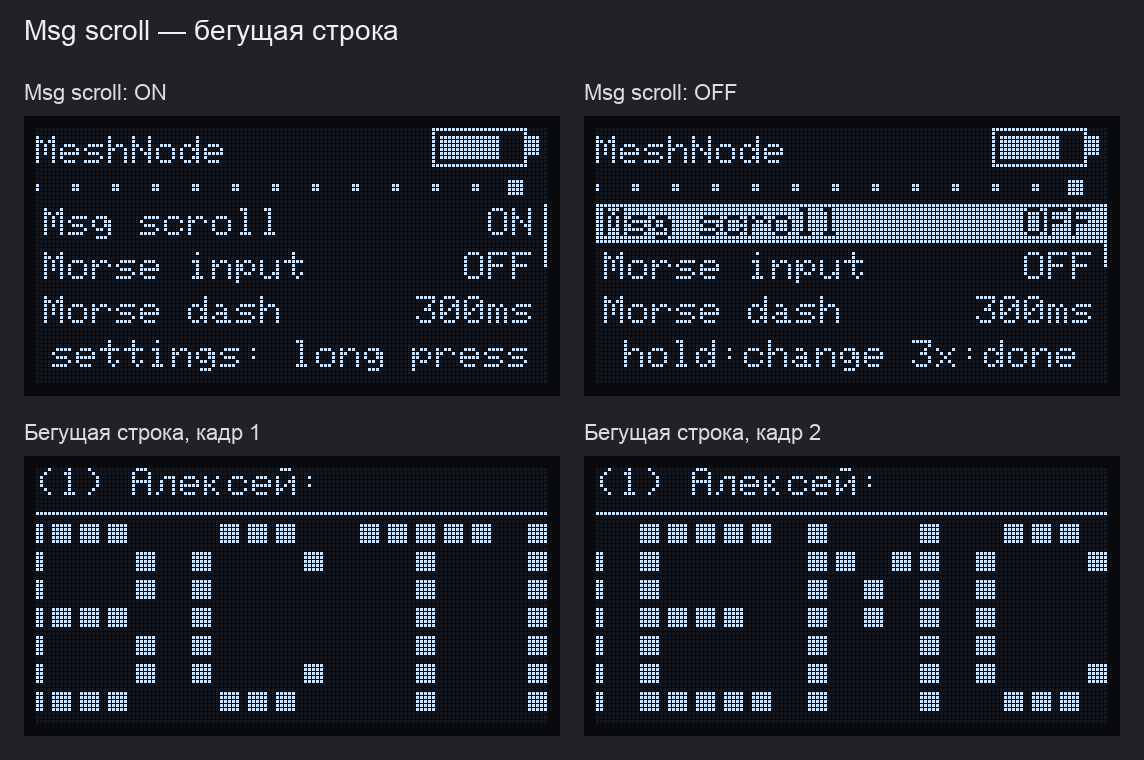
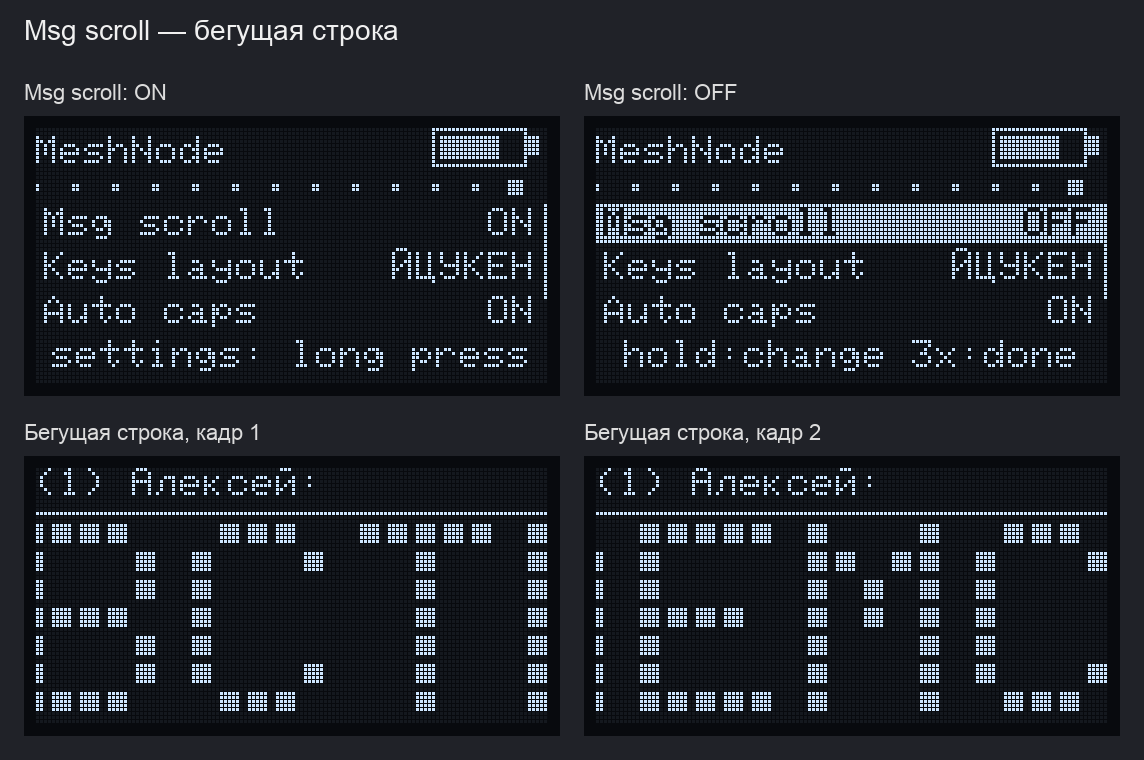
README, картинки и описание релиза: без морзе, «моё место».

diff --git a/tools/screen_render/render_compose.py b/tools/screen_render/render_compose.py
@@ -120,19 +120,19 @@ def layout_phrases(d, ph):
     return slots, page + 1
 
 
-def scr_phrases(d, lang="en", target="#Squad North", sel=0, morse=False, smart=()):
+def scr_phrases(d, lang="en", target="#Squad North", sel=0, gps=False, smart=()):
     L = LANG[lang]
     ph = [">" + x for x in smart] + L["phrases"]
     slots, pages = layout_phrases(d, ph)
-    fp = 2 if morse else 1
+    fp = 2 if gps else 1
     page = 0 if sel < fp else slots[sel - fp][0]
     title(d, target, "%d/%d" % (page + 1, pages))
     w = d.width()
     half = w // 2
     if page == 0:
-        if morse:
+        if gps:
             cell(d, 2, 15, half - 4, "клавиши" if lang == "ru" else "keys", sel == 0, True)
-            cell(d, half + 2, 15, half - 4, "морзе" if lang == "ru" else "morse", sel == 1, True)
+            cell(d, half + 2, 15, half - 4, "моё место" if lang == "ru" else "location", sel == 1, True)
         else:
             cell(d, 2, 15, w - 4, L["keyboard"], sel == 0, True)
     for i, p in enumerate(ph):
@@ -146,14 +146,13 @@ def scr_phrases(d, lang="en", target="#Squad North", sel=0, morse=False, smart=(
             cell(d, col * half + 2, y, half - 4, p, sel == i + fp, True)
 
 
-def scr_msg_settings(d, edit=False, row=0, scroll=True, morse=True, dash=300, freq=False, caps=True, lang="ru",
-                     cursor=False):
+def scr_msg_settings(d, edit=False, row=0, scroll=True, freq=False, caps=True, lang="ru", cursor=False):
     ro.home_header(d, "TICKER")
     w = d.width()
     lay = ("частотн." if lang == "ru" else "freq") if freq else ("ЙЦУКЕН" if lang == "ru" else "QWERTY")
-    rows = [("Msg scroll", "ON" if scroll else "OFF"), ("Morse input", "ON" if morse else "OFF"),
-            ("Morse dash", "%dms" % dash), ("Keys layout", lay), ("Auto caps", "ON" if caps else "OFF"),
-            ("Auto cursor", "ON" if cursor else "OFF")]
+    rows = [("Msg scroll", "ON" if scroll else "OFF"), ("Keys layout", lay),
+            ("Auto caps", "ON" if caps else "OFF"), ("Auto cursor", "ON" if cursor else "OFF")]
+    n = len(rows)
     top = row - 2 if edit and row >= 3 else 0
     d.setTextSize(1)
     for i in range(top, top + 3):
@@ -166,80 +165,23 @@ def scr_msg_settings(d, edit=False, row=0, scroll=True, morse=True, dash=300, fr
         rr = d.translate(r, 16)
         d.setCursor(w - 3 - d.getTextWidth(rr), y); d.print(rr)
     d.setColor(WHITE)
-    d.fillRect(w - 1, 19 + 32 * top // 6, 1, 32 * 3 // 6)
+    d.fillRect(w - 1, 19 + 32 * top // n, 1, 32 * 3 // n)
     d.drawTextCentered(w // 2, 64 - 11, "hold:change 3x:done" if edit else "settings: " + ro.PRESS_LABEL)
 
 
-MORSE_RU = [(".-", "а"), ("-...", "б"), (".--", "в"), ("--.", "г"), ("-..", "д"), (".", "е"),
-            ("...-", "ж"), ("--..", "з"), ("..", "и"), (".---", "й"), ("-.-", "к"), (".-..", "л"),
-            ("--", "м"), ("-.", "н"), ("---", "о"), (".--.", "п"), (".-.", "р"), ("...", "с"),
-            ("-", "т"), ("..-", "у"), ("..-.", "ф"), ("....", "х"), ("-.-.", "ц"), ("---.", "ч"),
-            ("----", "ш"), ("--.-", "щ"), ("--.--", "ъ"), ("-.--", "ы"), ("-..-", "ь"), ("..-..", "э"),
-            ("..--", "ю"), (".-.-", "я")]
-MORSE_EN = [(".-", "a"), ("-...", "b"), ("-.-.", "c"), ("-..", "d"), (".", "e"), ("..-.", "f"),
-            ("--.", "g"), ("....", "h"), ("..", "i"), (".---", "j"), ("-.-", "k"), (".-..", "l"),
-            ("--", "m"), ("-.", "n"), ("---", "o"), (".--.", "p"), ("--.-", "q"), (".-.", "r"),
-            ("...", "s"), ("-", "t"), ("..-", "u"), ("...-", "v"), (".--", "w"), ("-..-", "x"),
-            ("-.--", "y"), ("--..", "z")]
+SETTINGS_SCREENS = [
+    ("90_msg_settings", "Настройки: удержание — открыть", lambda d: scr_msg_settings(d)),
+    ("91_msg_settings_kb", "Раскладка и заглавные", lambda d: scr_msg_settings(d, True, 1)),
+    ("92_msg_settings_cursor", "Автокурсор", lambda d: scr_msg_settings(d, True, 3)),
+]
 
-
-def scr_morse(d, lang="ru", target="@Алексей", text="", code="", live=None, note=None, warn=False,
-              crib=0, tip=0, dash=300):
-    """Morse entry: the text line, the code being keyed, what it means, hints."""
-    tbl = dict(MORSE_RU if lang == "ru" else MORSE_EN)
-    ru = lang == "ru"
-    w = d.width()
-    count = str(len(text))
-    if not text:
-        title(d, "to " + target, count)
-    else:
-        d.setTextSize(1); d.setColor(WHITE)
-        d.setCursor(w - d.getTextWidth(count) - 1, 0); d.print(count)
-        d.setCursor(0, 0); d.print(d.translate(text + "_", 64))
-        d.drawRect(0, 11, w, 1)
-    d.setColor(WHITE)
-    x = 2
-    for ch in code:
-        ww = 12 if ch == "-" else 4
-        d.fillRect(x, 17, ww, 4); x += ww + 4
-    cur = code
-    if live is not None:
-        ww = 12 if live else 4
-        d.drawRect(x, 17, ww, 4); x += ww + 4
-        cur += "-" if live else "."
-    if cur:
-        now = tbl.get(cur, "?")
-        line = "= " + now
-        tw = d.getTextWidth(d.translate(line, 20))
-        d.setCursor(w - tw - 1, 15); d.print(d.translate(line, 20))
-        a, b = tbl.get(cur + ".", "-"), tbl.get(cur + "-", "-")
-        d.drawTextCentered(w // 2, 27, d.translate("+. %s   +- %s" % (a, b), 40))
-    else:
-        d.drawTextCentered(w // 2, 15, d.translate(
-            ("точка < %d мс < тире" if ru else "dot < %dms < dash") % dash, 40))
-        d.drawTextCentered(w // 2, 27, d.translate("держать 2 с: выход" if ru else "hold 2s: exit", 40))
-    if note:
-        d.drawTextCentered(w // 2, 39, d.translate(note, 48))
-    else:
-        items = (MORSE_RU if ru else MORSE_EN)[crib * 3:crib * 3 + 3]
-        d.drawTextCentered(w // 2, 39, d.translate(" ".join(o + c for c, o in items), 48))
-    tips = ([".-.-. отправить", "-...- пробел", "........ стереть", "пауза: пробел"] if ru
-            else [".-.-. send", "-...- space", "........ erase", "long pause: space"])
-    d.drawTextCentered(w // 2, 52, d.translate(tips[tip], 40))
-
-
-MORSE_SCREENS = [
-    ("90_msg_settings", "Настройки: удержание — открыть", scr_msg_settings),
-    ("91_msg_settings_edit", "Морзе вкл/выкл", lambda d: scr_msg_settings(d, True, 1)),
-    ("92_msg_settings_dash", "Порог тире: 200…800 мс", lambda d: scr_msg_settings(d, True, 2)),
-    ("92b_msg_settings_kb", "Раскладка и заглавные", lambda d: scr_msg_settings(d, True, 3)),
-    ("93_phrases_morse", "Рядом с клавишами — морзе", lambda d: scr_phrases(d, "ru", "@Алексей", sel=1, morse=True)),
-    ("94_morse_idle", "Морзе: подсказки и азбука", lambda d: scr_morse(d, crib=5)),
-    ("95_morse_keying", "Нажато .-. — это «р»", lambda d: scr_morse(d, text="пр", code=".-.", tip=1)),
-    ("96_morse_live", "Держите дольше 300 мс — тире", lambda d: scr_morse(d, text="пр", code=".-", live=1, tip=2)),
-    ("97_morse_unknown", "Такого знака нет: ничего не вписано",
-     lambda d: scr_morse(d, text="привет", note="..--.- ? нет знака", tip=0)),
-    ("98_morse_en", "set lang en: латиница", lambda d: scr_morse(d, "en", "@Alexey", text="hi", code="--.", tip=0)),
+GPS_SCREENS = [
+    ("b1_gps_key", "GPS включён: «моё место» рядом с клавишами",
+     lambda d: scr_phrases(d, "ru", "#Squad North", sel=1, gps=True)),
+    ("b2_gps_sent", "В Sent: geo:широта,долгота",
+     lambda d: scr_sent(d, "#Squad North", "1/3", "To channel", "0s", "geo:55.75210,37.61750")),
+    ("b3_gps_key_en", "set lang en: location",
+     lambda d: scr_phrases(d, "en", "@Alexey", sel=1, gps=True)),
 ]
 
 SMART_SCREENS = [
@@ -252,7 +194,7 @@ SMART_SCREENS = [
     ("a4_next_word2", "После «через » — дальше",
      lambda d: scr_keys(d, "ru", "@Алексей", text="Буду через ", row=3, col=8)),
     ("a5_settings_cursor", "Auto cursor в настройках",
-     lambda d: scr_msg_settings(d, True, 5, cursor=True)),
+     lambda d: scr_msg_settings(d, True, 3, cursor=True)),
     ("a6_save_phrase", "Из Sent: сделать фразой", lambda d: scr_save_phrase(d)),
 ]
 
@@ -261,7 +203,7 @@ JOURNEY_SCREENS = [
     ("02_message", "2. Читаете. Удержание — ответить",
      lambda d: ro.scr_message(d, "Ты где? Мы у моста", unread=1, origin="(1) Алексей:")),
     ("03_reply_phrases", "3. RE: фраза одной кнопкой или свой текст",
-     lambda d: scr_phrases(d, "ru", "RE @Алексей", sel=2, morse=True, smart=("в пути", "на месте", "дома"))),
+     lambda d: scr_phrases(d, "ru", "RE @Алексей", sel=1, smart=("в пути", "на месте", "дома"))),
     ("04_reply_keys", "4. Клавиатура с подсказками слов",
      lambda d: scr_keys(d, "ru", "@Алексей", text="Буду у мо", row=3, col=8)),
     ("05_delivered", "5. Доставлено", lambda d: scr_result(d, "RE @Алексей", "Delivered")),
@@ -537,8 +479,8 @@ NEIGHBOR_SCREENS = [
 ]
 
 TICKER_SCREENS = [
-    ("50_ticker_on", "Msg scroll: ON", lambda d: scr_msg_settings(d, morse=False)),
-    ("51_ticker_off", "Msg scroll: OFF", lambda d: scr_msg_settings(d, True, 0, scroll=False, morse=False)),
+    ("50_ticker_on", "Msg scroll: ON", lambda d: scr_msg_settings(d)),
+    ("51_ticker_off", "Msg scroll: OFF", lambda d: scr_msg_settings(d, True, 0, scroll=False)),
 ]
 
 # ------------------------------------------------------------ running line
@@ -721,14 +663,16 @@ def main():
     sheet(jitems, 3, "Без телефона: пришло — прочитал — ответил — доставлено").save(
         os.path.join(out, "gallery_autonomy.png"))
 
-    mitems = []
-    os.makedirs(os.path.join(out, "morse"), exist_ok=True)
-    for fname, label, fn in MORSE_SCREENS:
-        d = Dev(); fn(d)
-        im = to_image(d)
-        im.save(os.path.join(out, "morse", fname + ".png"))
-        mitems.append((label, im))
-    sheet(mitems, 3, "Морзе и настройки сообщений").save(os.path.join(out, "gallery_morse.png"))
+    for name, title_, screens in (("settings", "Настройки сообщений", SETTINGS_SCREENS),
+                                  ("gps", "Моё место: координаты одной кнопкой", GPS_SCREENS)):
+        items = []
+        os.makedirs(os.path.join(out, name), exist_ok=True)
+        for fname, label, fn in screens:
+            d = Dev(); fn(d)
+            im = to_image(d)
+            im.save(os.path.join(out, name, fname + ".png"))
+            items.append((label, im))
+        sheet(items, 3, title_).save(os.path.join(out, "gallery_%s.png" % name))
 
     titems = []
     for fname, label, fn in TICKER_SCREENS:

diff --git a/README.md b/README.md
@@ -19,12 +19,12 @@
 | Ответить | Удержание в окне сообщения: адресат уже выбран, в заголовке `RE` | [Ответ на входящее](#ответ-на-входящее) |
 | Ответить быстро | Готовые ответы под смысл сообщения («Ты где?» → `в пути`), 18 фраз, свои фразы | [Как писать быстрее](#как-писать-быстрее) |
 | Написать свой текст | Клавиатура с подсказками слова и следующего слова, заглавными, цифрами и черновиками | [Клавиатура](#клавиатура) |
-| Набрать вслепую | Азбука Морзе одной кнопкой, русская или латинская | [Морзе](#морзе-ввод-одной-кнопкой) |
+| Сообщить, где вы | Клавиша «моё место» отправляет координаты GPS одним удержанием | [Моё место](#моё-место-координаты-одной-кнопкой) |
 | Написать первым | В канал или избранному контакту, последние адресаты сверху | [Кому можно отправить](#кому-можно-отправить) |
 | Убедиться, что дошло | `Delivered` / `No reply` для личных, повтор удержанием | [Как отправить](#как-отправить) |
 | Посмотреть, что отправлено | Страница Sent: кому, в какой канал, на что ответ, статус | [Sent](#sent-что-отправлено-с-устройства) |
 | Видеть, кто рядом | Neighbors: число соседей и их сигнал | [Neighbors](#neighbors-сколько-соседей) |
-| Настроить под себя | Бегущая строка, морзе, раскладка, заглавные — в меню устройства | [Как выключить](#как-выключить) |
+| Настроить под себя | Бегущая строка, раскладка, заглавные, автокурсор — в меню устройства | [Как выключить](#как-выключить) |
 
 ## Что один раз сделать с телефоном
 
@@ -35,7 +35,7 @@
 3. **Отметьте избранными (звёздочкой) контакты**, которым будете писать первым. Отвечать можно любому, кто написал, даже не избранному.
 4. По желанию в контакте **Console**: язык (`set lang ru|en`), свои фразы (`set phrase N текст`), время (`set time …`).
 
-Всё остальное — чтение, ответы, новые сообщения, настройки ленты, морзе и клавиатуры — дальше делается на устройстве.
+Всё остальное — чтение, ответы, новые сообщения, настройки ленты и клавиатуры — дальше делается на устройстве.
 
 ## Одна кнопка: шпаргалка
 
@@ -45,7 +45,6 @@
 | Окно сообщения | прочитано, следующее | следующая страница | удалить | все прочитаны | — | **ответить** |
 | Списки (адресаты, фразы) | следующий | предыдущий | назад | на главную | на главную | выбрать / **отправить фразу** |
 | Клавиатура | вправо | влево | вниз | вверх | выход (черновик) | ввести клавишу |
-| Морзе | точка — короткое, тире — длинное нажатие | | | | | 2 с — выход |
 | Sent | старее | новее | выход | **сделать фразой** | выход | написать ещё раз |
 | Настройки сообщений | следующая строка | предыдущая | закрыть | — | — | открыть / изменить |
 
@@ -60,7 +59,7 @@
 | Готовые фразы | — | ✅ 18 фраз на трёх экранах, по-русски или по-английски, любую можно заменить командой |
 | Русская клавиатура | — | ✅ при `set lang ru` (по умолчанию), английская при `set lang en` |
 | Подсказки слов, черновики, заглавные, цифры и знаки на клавиатуре | — | ✅ |
-| Ввод азбукой Морзе | — | ✅ русской или латинской по языку, включается рядом с Msg scroll |
+| Отправить свои координаты | — | ✅ клавиша «моё место», когда включён GPS |
 | Отметка «Delivered» для личных сообщений с устройства | — | ✅ и повтор отправки удержанием, если ответа нет |
 | Ответ на входящее с устройства | — | ✅ удержание в окне сообщения, `RE` в заголовке |
 | Последние адресаты вверху списка | — | ✅ три последних |
@@ -85,9 +84,9 @@
 
 ### Как выключить
 
-После прошивки бегущая строка **включена**. Она выключается на странице настроек сообщений. Там же включается ввод азбукой Морзе — см. [Морзе](#морзе-ввод-одной-кнопкой).
+После прошивки бегущая строка **включена**. Она выключается на странице настроек сообщений. Там же настраивается клавиатура.
 
-1. Короткими нажатиями листайте страницы до страницы с `Msg scroll`, `Morse input` и `Morse dash`. Она предпоследняя, перед страницей выключения.
+1. Короткими нажатиями листайте страницы до страницы с `Msg scroll`, `Keys layout`, `Auto caps` и `Auto cursor`. Она предпоследняя, перед страницей выключения.
 2. **Долгое нажатие** открывает настройки: строка под курсором выделяется.
 3. Нажатием дойдите до `Msg scroll` (она первая) и сделайте **долгое нажатие**: `ON` сменится на `OFF`.
 4. **Три нажатия** закрывают настройки.
@@ -284,7 +283,7 @@ set lang ru                      set lang en
 
 **Цифры и знаки.** Цифр на основной раскладке нет: клавиша `#+` переключает три верхних ряда на цифры и знаки `- + = / ( ) @ # % & * _ ! ? : ; " ' ~ $ < > [ ]`. На этой клавише тогда написано `абв` (`abc`); она же возвращает буквы. Точка, запятая и вопрос есть и на буквенной раскладке.
 
-**Черновики.** Если выйти из клавиатуры (пять нажатий, назад к адресатам или на главную), набранный текст сохраняется как черновик для этого адресата. При следующем открытии клавиатуры или морзе для того же адресата он вернётся, на экране мелькнёт `Черновик`. Хранятся черновики для четырёх последних адресатов до перезагрузки. После отправки черновик удаляется. Если отправка не удалась, остаётся.
+**Черновики.** Если выйти из клавиатуры (пять нажатий, назад к адресатам или на главную), набранный текст сохраняется как черновик для этого адресата. При следующем открытии клавиатуры для того же адресата он вернётся, на экране мелькнёт `Черновик`. Хранятся черновики для четырёх последних адресатов до перезагрузки. После отправки черновик удаляется. Если отправка не удалась, остаётся.
 
 **Частотная раскладка.** Вместо ЙЦУКЕН / QWERTY можно включить раскладку, где частые буквы стоят рядом друг с другом и с пробелом. Это опция `Keys layout` в настройках сообщений или команда `set kb freq` (`set kb std` — обратно). По расчёту на типичном тексте она экономит действия: для русского ≈3,7 вместо ≈4,2 на букву (−11%), для английского ≈3,4 вместо ≈4,1 (−16%). Но к ней нужно привыкнуть, поэтому по умолчанию стоит обычная.
 
@@ -301,61 +300,33 @@ set lang ru                      set lang en
 
 Отправленные с устройства сообщения не попадают в историю чата в приложении на телефоне. Их видно на странице [Sent](#sent-что-отправлено-с-устройства).
 
-## Морзе: ввод одной кнопкой
+## Моё место: координаты одной кнопкой
 
-Текст можно набирать азбукой Морзе: короткое нажатие — точка, длинное — тире. Азбука следует языку: при `set lang ru` русская, при `set lang en` латинская. Цифры и знаки `. , ? ! :` есть в обеих.
+Если на плате есть GPS-приёмник и он **включён** (страница GPS в меню устройства), на первом экране фраз вместо одной кнопки `клавиатура` появляются две: `клавиши` и `моё место` (`location` при `set lang en`). GPS выключен или его нет — клавиши `моё место` нет.
 
-### Как включить
+1. Откройте Write, выберите адресата или ответьте удержанием на входящее.
+2. Нажатием перейдите на `моё место` и сделайте **удержание**.
+3. Уходят координаты в виде `geo:55.75210,37.61750`. Приложение MeshCore у получателя показывает их как ссылку на карту.
 
-На странице настроек сообщений (там же, где `Msg scroll`) два пункта:
-
-- `Morse input` — `ON` / `OFF`. После прошивки выключен.
-- `Morse dash` — с какой длины нажатие считается тире. Каждое долгое нажатие переключает: 200, 250, 300, 350, 400, 500, 600, 800 мс. По умолчанию 300 мс. Если тире у вас то и дело превращаются в точки, увеличьте значение; если точки становятся тире — уменьшите.
-
-То же самое командами в Console или по кабелю: `set morse on`, `set morse off`, `set morse.dash 350` (от 100 до 1000 мс).
-
-Ещё три пункта на той же странице относятся к клавиатуре: `Keys layout` (`ЙЦУКЕН` / `частотн.`), `Auto caps` (заглавные буквы) и `Auto cursor` (курсор сам идёт к вероятной букве). На экране видно три строки настроек из шести, список прокручивается за курсором, справа полоса прокрутки.
-
-| Настройка | На устройстве | Команда |
-|---|---|---|
-| Бегущая строка | `Msg scroll` | — |
-| Морзе | `Morse input` | `set morse on\|off` |
-| Порог тире | `Morse dash` | `set morse.dash 350` |
-| Раскладка | `Keys layout` | `set kb std\|freq` |
-| Заглавные | `Auto caps` | `set caps on\|off` |
-| Автокурсор | `Auto cursor` | `set cursor on\|off` |
-
-Когда морзе включено, на первом экране фраз вместо одной кнопки `клавиатура` две: `клавиши` и `морзе`.
-
-### Как набирать
-
-| Что сделать | Что получится |
-|---|---|
-| Нажатие короче порога | Точка |
-| Нажатие длиннее порога | Тире |
-| Пауза в 2 порога (600 мс при 300) | Буква закончена и вписана в текст |
-| Пауза в 5 порогов (1,5 с при 300) | Пробел |
-| `-...-` | Пробел сразу, без ожидания |
-| `........` (7–8 точек) | Стереть последнюю букву |
-| `.-.-.` | Отправить сообщение |
-| Удержание 2 с | Выйти к фразам. Набранный текст остаётся, его можно дописать на клавиатуре |
-
-Набор можно смешивать: начать морзе, выйти, дописать на клавиатуре и отправить там.
-
-### Что видно на экране
-
-- **Сверху** — набранный текст и число букв, как на клавиатуре.
-- **Строка 1** — точки и тире текущей буквы. Пока кнопка нажата, последний знак нарисован контуром: он сам вырастает из точки в тире, когда нажатие переходит порог. Справа — что получится, если отпустить сейчас: `= р`.
-- **Строка 2** — что даст ещё одна точка или тире: `+. л   +- я`. Так видно, куда ведёт набор, и не нужно помнить всю азбуку.
-- **Строка 3** — азбука по три буквы, сменяется каждые 2,5 секунды: `а.- б-... в.--`.
-- **Строка 4** — служебные сигналы по очереди: отправить, пробел, стереть.
-
-### Если знак не распознан
-
-Если набрана комбинация, которой нет в азбуке, **в текст ничего не вписывается**. Вместо азбуки на 3 секунды появляется то, что устройство приняло, и пометка: `..--.- ? нет знака`. Так видно, где ошибка: лишняя точка, тире вместо точки или слишком короткая пауза склеила две буквы. Уже во время набора справа видно `= ?`, если такой буквы пока нет. Тогда можно дождаться паузы и набрать букву заново. Если ошибочная буква всё же вписалась, сотрите её семью-восемью точками.
+Если GPS ещё не поймал спутники, ничего не отправляется: на экране мелькнёт `Нет GPS-фикса`. Подождите на открытом месте и попробуйте снова. Отправленные координаты видны на странице Sent, как любое сообщение.
 
 <p align="center">
-  <img src="docs/screens/gallery_morse.png" alt="Морзе: настройки, ввод, подсказки, нераспознанный знак" width="900">
+  <img src="docs/screens/gallery_gps.png" alt="Моё место: координаты одной кнопкой" width="900">
+</p>
+
+## Настройки сообщений
+
+Бегущая строка и клавиатура настраиваются на одной странице меню устройства — той, где `Msg scroll`. Удержание открывает настройки, нажатие переходит к следующей строке, удержание меняет значение, три нажатия закрывают. На экране видно три строки из четырёх, список прокручивается за курсором.
+
+| Настройка | На устройстве | Команда | По умолчанию |
+|---|---|---|---|
+| Бегущая строка | `Msg scroll` | — | включена |
+| Раскладка | `Keys layout` | `set kb std\|freq` | ЙЦУКЕН / QWERTY |
+| Заглавные | `Auto caps` | `set caps on\|off` | включены |
+| Автокурсор | `Auto cursor` | `set cursor on\|off` | выключен |
+
+<p align="center">
+  <img src="docs/screens/gallery_settings.png" alt="Настройки сообщений" width="900">
 </p>
 
 ## Sent: что отправлено с устройства
@@ -415,7 +386,7 @@ set lang ru                      set lang en
 | Heltec V3 | `Heltec_v3_companion_radio_ble` | `Heltec_v3_companion_radio_usb` | `Heltec_v3_companion_radio_wifi` |
 | Heltec V4 | `heltec_v4_companion_radio_ble` | `heltec_v4_companion_radio_usb` | `heltec_v4_companion_radio_wifi` |
 
-**Другие платы с экраном и одной кнопкой.** Всё работает так же: бегущая строка, Write, морзе, Sent, настройки. Эти сборки собираются автоматически, но на самих платах не проверялись. Если что-то не так — напишите в Issues.
+**Другие платы с экраном и одной кнопкой.** Всё работает так же: бегущая строка, Write, готовые ответы, Sent, настройки, а на платах с GPS — «моё место». Эти сборки собираются автоматически, но на самих платах не проверялись. Если что-то не так — напишите в Issues.
 
 | Плата | Bluetooth | USB | Wi‑Fi |
 |---|---|---|---|
@@ -439,7 +410,7 @@ set lang ru                      set lang en
 
 У T-LoRa V2.1 и Station G2 нет Bluetooth-сборки: с новыми функциями она не помещается в память этих плат. Платы на nRF52 (T114, RAK4631, Nano G2 Ultra) прошиваются файлом `.uf2` или `.zip`, остальные (ESP32) — `.bin` и `-merged.bin`, как V3 и V4.
 
-**Какие платы не подходят пока.** Платы с e-ink экраном (Heltec Wireless Paper, E213, E290, T-Echo, ThinkNode M1/M5, Mesh Pocket): клавиатура и морзе требуют быстрого экрана. Платы с джойстиком или трекболом (Wio Tracker L1, T-Deck): у них другое управление, под него нужна своя схема кнопок. На T-Deck есть настоящая клавиатура, для него можно сделать отдельный ввод.
+**Какие платы не подходят пока.** Платы с e-ink экраном (Heltec Wireless Paper, E213, E290, T-Echo, ThinkNode M1/M5, Mesh Pocket): клавиатуре нужен быстрый экран. Платы с джойстиком или трекболом (Wio Tracker L1, T-Deck): у них другое управление, под него нужна своя схема кнопок. На T-Deck есть настоящая клавиатура, для него можно сделать отдельный ввод.
 
 Сборки `_ble` подключаются к приложению по Bluetooth, `_usb` — по USB-кабелю, `_wifi` — по Wi‑Fi (TCP). У T114 и плат на nRF52 нет Wi‑Fi.
 
@@ -470,7 +441,7 @@ set lang ru                      set lang en
 **После обновления:**
 
 - Проверьте версию: в приложении MeshCore напишите `ver` в контакте **Console**.
-- Новые настройки приходят со значениями по умолчанию: `Morse input` — выключено, `Auto caps` — включено, `Auto cursor` — выключено, `Keys layout` — ЙЦУКЕН. Поменять — на странице настроек сообщений, см. [Как выключить](#как-выключить).
+- Новые настройки приходят со значениями по умолчанию: `Auto caps` — включено, `Auto cursor` — выключено, `Keys layout` — ЙЦУКЕН. Поменять — на странице настроек сообщений, см. [Как выключить](#как-выключить).
 - Список Sent, черновики и последние адресаты хранятся только в памяти и после прошивки, как после любой перезагрузки, начинаются с нуля.
 
 ### Первая установка

diff --git a/.github/release-notes.md b/.github/release-notes.md
@@ -2,8 +2,11 @@
 
 ## Что нового в v1.17.1-0.1.11
 
-- **Ещё 16 плат с экраном и одной кнопкой:** Heltec V2, V4 R8 (OLED и TFT), Wireless Tracker, Tracker V2, T190, LilyGO T3S3 (SX1262 и SX1276), T-Beam (SX1262 и SX1276), T-Beam S3 Supreme, T-LoRa V2.1, RAK4631 с OLED, Station G2, Nano G2 Ultra, ThinkNode M2, Xiao S3 Wio. Всё как на V3: бегущая строка, Write, готовые ответы, морзе, Sent, настройки. Эти сборки собраны автоматически, на самих платах не проверялись.
-- Функции те же, что в 0.1.10.
+- **Моё место.** Если GPS включён, на первом экране фраз рядом с клавиатурой появляется клавиша `моё место` (`location`): удержание отправляет координаты `geo:широта,долгота`, приложение показывает их ссылкой на карту. Без фикса GPS ничего не уходит, на экране `Нет GPS-фикса`.
+- **Морзе убран.** Ввода азбукой Морзе больше нет, на первом экране фраз снова одна кнопка `клавиатура` (или `клавиши` и `моё место` при включённом GPS). Настройки `Morse input`, `Morse dash` и команды `set morse` удалены.
+- **Ещё 16 плат с экраном и одной кнопкой:** Heltec V2, V4 R8 (OLED и TFT), Wireless Tracker, Tracker V2, T190, LilyGO T3S3 (SX1262 и SX1276), T-Beam (SX1262 и SX1276), T-Beam S3 Supreme, T-LoRa V2.1, RAK4631 с OLED, Station G2, Nano G2 Ultra, ThinkNode M2, Xiao S3 Wio. Эти сборки собраны автоматически, на самих платах не проверялись.
+
+![Моё место](https://raw.githubusercontent.com/vladkondratyev/meshcore/main/docs/screens/gallery_gps.png)
 
 ## Что было в 0.1.10
 
@@ -25,7 +28,7 @@
 - **T114:** скачайте `Heltec_t114_companion_radio_ble-….uf2`, подключите плату кабелем с передачей данных, дважды быстро нажмите Reset и скопируйте файл на появившийся USB-диск.
 - **V3 / V4:** скачайте `.bin` **без** `-merged`, откройте [flasher.meshcore.io](https://flasher.meshcore.io) в Chrome или Edge, выберите кастомную прошивку, **выключите очистку (erase)** и прошейте.
 - Проверка: `ver` в контакте Console приложения MeshCore.
-- Новые настройки — со значениями по умолчанию: морзе и автокурсор выключены, заглавные включены, раскладка ЙЦУКЕН.
+- Новые настройки — со значениями по умолчанию: автокурсор выключен, заглавные включены, раскладка ЙЦУКЕН.
 
 Первая установка и подробности — в [README](https://github.com/vladkondratyev/meshcore#первая-установка).
 
